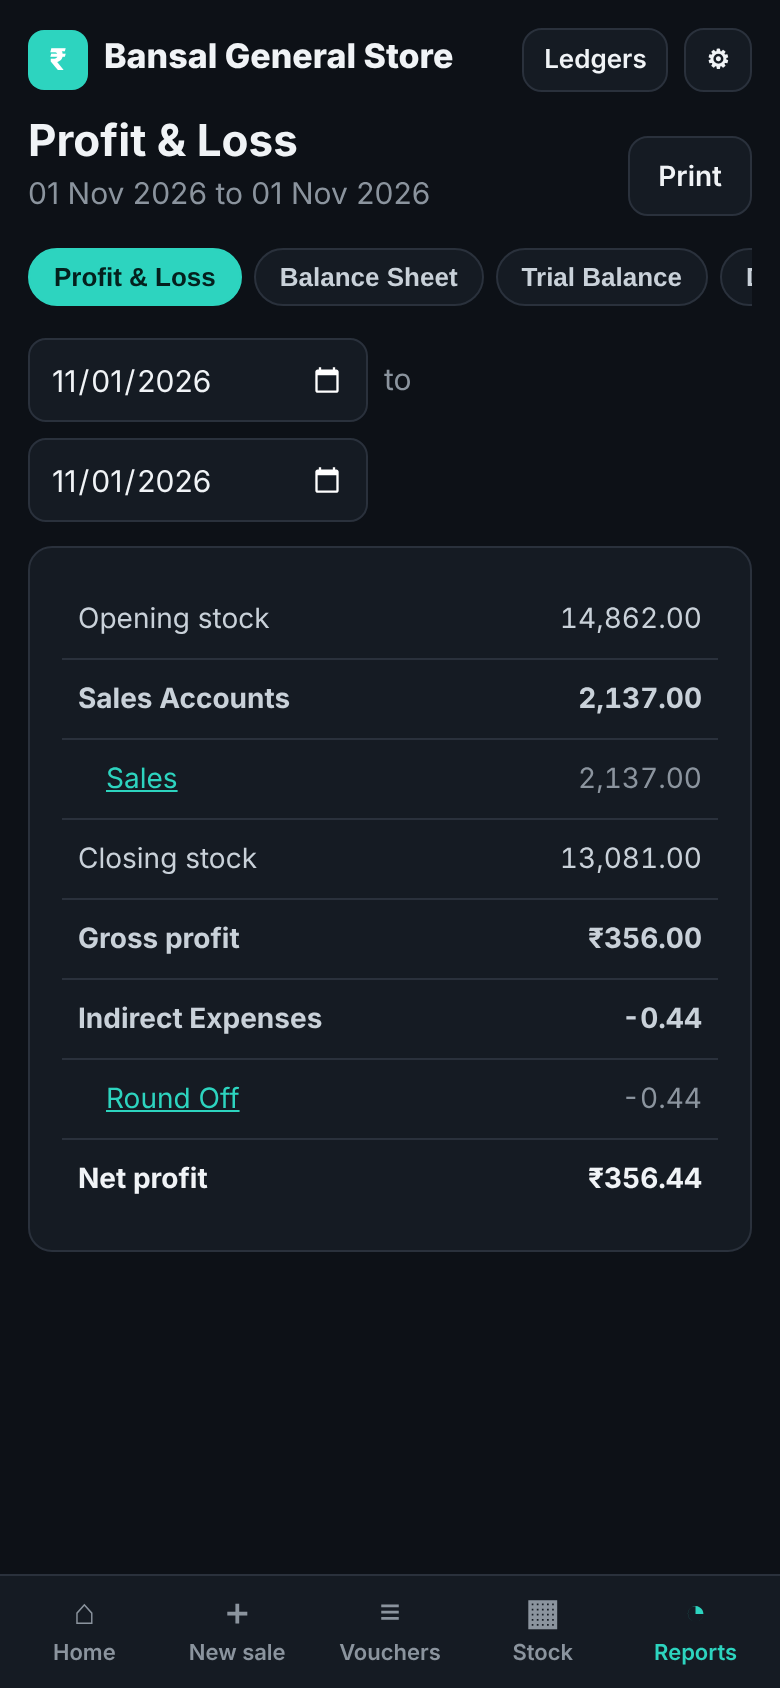
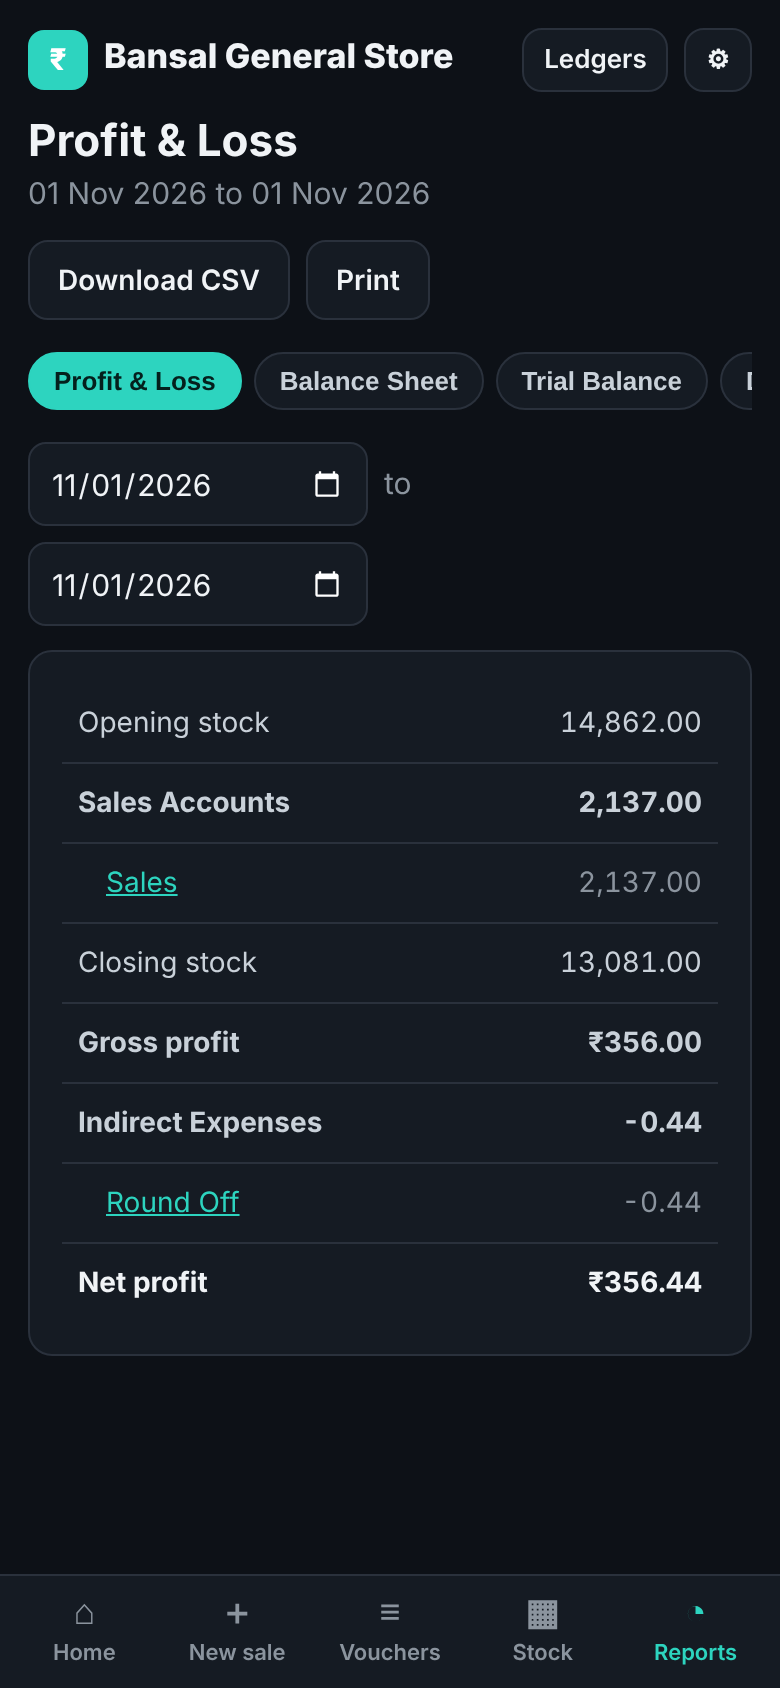
Refresh screenshots; docs: handoff and manual testing for CSV, install, mobile items
Claude-Session: https://claude.ai/code/session_01KakstmcvHY21AvYy6WNJfV

diff --git a/docs/MANUAL_TESTING.md b/docs/MANUAL_TESTING.md
@@ -37,7 +37,10 @@ These need your judgement; the code works either way.
 12. Try opening the first business's URL while signed in as a user who is not a member → "not found".
 13. Forgot password → with no email provider configured the link appears in the server log (dev);
     in production set RESEND_API_KEY/EMAIL_FROM.
-14. Phone browser: everything usable, bottom tab bar, no sideways scrolling, dark mode readable.
+14. Reports → Download CSV → opens in Excel/Sheets with ₹ and names correct; a customer named
+    `=1+1` shows as text, not 2.
+15. On a phone browser: menu → Add to Home screen → opens full screen with the ₹ icon.
+16. Phone browser: everything usable, bottom tab bar, no sideways scrolling, dark mode readable.
 
 ## Android app
 1. Build: `cd mobile && npx expo run:android` (or EAS preview APK). Set Server to your PC's address.
@@ -45,12 +48,13 @@ These need your judgement; the code works either way.
 3. Sell → cash bill with 2 items → total matches what the website shows for the same items → Share PDF
    to WhatsApp → the PDF opens and looks right.
 4. Open that bill → **Correct this bill** → change quantity → save → the original shows cancelled.
-5. Receive money / Pay expense → appear in Vouchers and on the website.
-6. Scan purchase invoice → **Read on phone** (development build) and **Read on server** → both give a
+5. Stock → + New item → appears in the list and in Sell.
+6. Receive money / Pay expense → appear in Vouchers and on the website.
+7. Scan purchase invoice → **Read on phone** (development build) and **Read on server** → both give a
    sensible draft → save → compare with the paper bill.
-7. Turn on airplane mode → actions show a clear "could not reach the server" message, no crash.
-8. Sign out → reopen app → asks to sign in. Sign in as the cashier → no purchase/scan options.
-9. Rotate/large font sizes (Android accessibility settings) → text still fits.
+8. Turn on airplane mode → actions show a clear "could not reach the server" message, no crash.
+9. Sign out → reopen app → asks to sign in. Sign in as the cashier → no purchase/scan options.
+10. Rotate/large font sizes (Android accessibility settings) → text still fits.
 
 ## Notes / problems found
 (write here)

diff --git a/docs/HANDOFF.md b/docs/HANDOFF.md
@@ -12,11 +12,12 @@ This file lets anyone (you on your PC, or a new Claude session) continue the wor
 - Invoice scanning: `POST /ocr/invoice` (photo) and `/ocr/parse` (text), shared parser, review UI on
   the New Purchase page.
 - Correct a voucher (web: all types; app: sales bills) — new voucher + cancel original in one transaction.
+- CSV export for every report and the voucher list (formula-injection safe); website installable (manifest).
 - Password reset by email (Resend via env, dev logs the link); `npm run db:cleanup` for a daily cron.
-- Tests: `npm test` (36 incl. OCR on a real image), `npm run smoke` (27 HTTP checks incl. the mobile flow).
+- Tests: `npm test` (39 incl. OCR on a real image), `npm run smoke` (27 HTTP checks incl. the mobile flow).
 
 **Android app (`mobile/`)**
-- Expo SDK 58 app: sign in/up, businesses, home, sell with exact GST preview, vouchers with PDF share and
+- Expo SDK 58 app: sign in/up (+ forgot password), businesses, home, sell with exact GST preview, correct a bill, add stock items, vouchers with PDF share and
   cancel, stock, receipts/expenses, parties and ledger statements, reports, invoice scanning
   (on-device ML Kit with server fallback).
 - Checks: `npm test`, `npx expo-doctor` (20/20), `npx expo export --platform android` bundles.
@@ -36,8 +37,8 @@ To keep going with Claude Code locally: *"Read docs/HANDOFF.md and continue with
 ## Backlog (suggested order)
 1. Owner decisions in docs/MANUAL_TESTING.md (package id, server URL, open sign-up, legal pages).
 2. Email verification for new accounts (password reset is done; set RESEND_API_KEY/EMAIL_FROM in production).
-4. Mobile: add/edit stock items, date picker, offline queue for sales.
-5. Exports: CSV/Excel for reports, JSON backup per business, Tally XML.
+4. Mobile: edit stock items, date picker, offline queue for sales, CSV share.
+5. Exports: JSON backup per business, Tally XML (CSV is done).
 6. GST e-invoice (IRN/QR) and e-way bill.
 7. TOTP two-factor for owners/admins; list of signed-in devices.
 8. Optional cloud OCR for low-confidence scans (needs owner consent + data agreement).
